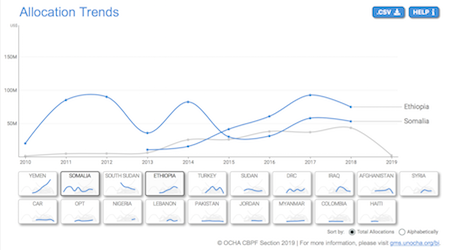
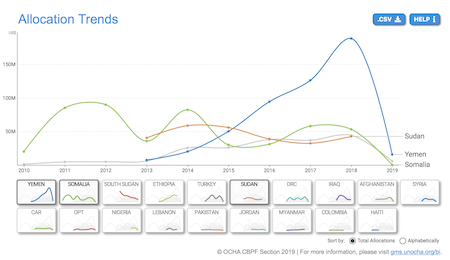
Update files

diff --git a/pbiali/src/d3chartpbiali.js b/pbiali/src/d3chartpbiali.js
@@ -95,6 +95,8 @@
 			labelPadding = 12,
 			labelGroupHeight = 16,
 			labelLinePadding = 4,
+			fadeOpacity = 0.1,
+			colorsArray = ["#418FDE", "#A4D65E", "#E56A54", "#E2E868", "#999999", "#ECA154", "#71DBD4", "#9063CD", "#D3BC8D"],
 			chartTitleDefault = "Allocation Trends",
 			sortButtonsOptions = ["total", "alphabetically"],
 			file = "https://cbpfapi.unocha.org/vo2/odata/AllocationBudgetTotalsByYearAndFund?poolfundAbbrv=&$format=csv",
@@ -178,6 +180,9 @@
 
 		const yScaleButton = d3.scaleLinear()
 			.range([buttonHeight - buttonsPanel.buttonsPadding[2], buttonsPanel.buttonsPadding[0]]);
+
+		const scaleColors = d3.scaleOrdinal()
+			.range(colorsArray);
 
 		const lineGeneratorMain = d3.line()
 			.x(function(d) {
@@ -276,6 +281,12 @@
 			yScaleMain.domain(yDomain);
 
 			yScaleButton.domain(yDomain);
+
+			scaleColors.domain(data.cbpfs.sort(function(a, b) {
+				return d3.descending(a.total, b.total);
+			}).map(function(d) {
+				return d.cbpf;
+			}));
 
 			createAverageLine(data.cbpfs, data.years);
 
@@ -380,6 +391,10 @@
 					.attr("class", "pbialiMainGroup")
 					.style("opacity", 0);
 
+				mainGroup.each(function(d) {
+					localVariable.set(this, d.cbpf);
+				});
+
 				const clipPath = mainGroup.append("clipPath")
 					.attr("id", function(d) {
 						return "pbialiClipPath" + d.cbpf.replace(/\s+/g, '');
@@ -394,7 +409,9 @@
 					.attr("d", function(d) {
 						return lineGeneratorMain(d.values);
 					})
-					.attr("class", "contributionColorStroke")
+					.style("stroke", function(d) {
+						return d3.color(scaleColors(d.cbpf)).darker(0.2);
+					})
 					.attr("stroke-width", "2px")
 					.attr("clip-path", function(d) {
 						return "url(#pbialiClipPath" + d.cbpf.replace(/\s+/g, '') + ")"
@@ -418,7 +435,9 @@
 						const thisCbpf = d3.select(this.parentNode).datum().cbpf
 						return "url(#pbialiClipPath" + thisCbpf.replace(/\s+/g, '') + ")"
 					})
-					.attr("class", "contributionColorFill");
+					.style("fill", function() {
+						return d3.color(scaleColors(localVariable.get(this))).darker(0.2);
+					});
 
 				const rectOverlayCbpfs = mainPanel.main.append("rect")
 					.attr("class", "pbialiRectOverlay")
@@ -555,7 +574,9 @@
 				buttonPaths.each(function(d) {
 					if (d.cbpf === d3.select(this.parentNode).datum().cbpf) {
 						d3.select(this).style("stroke-width", "2px")
-							.attr("class", "contributionColorStroke")
+							.style("stroke", function(d) {
+								return d3.color(scaleColors(d.cbpf)).darker(0.4);
+							})
 							.raise();
 					};
 				});
@@ -771,7 +792,8 @@
 						"</strong>:</span><br><div style='margin:0px;display:flex;flex-wrap:wrap;align-items:flex-end;width:232px;'>";
 
 					for (let i = 0; i < thisData.length; i++) {
-						tooltipHtml += "<div style='display:flex;flex:0 50%;'>&bull; " +
+						const thisColor = scaleColors(thisData[i].name);
+						tooltipHtml += "<div style='display:flex;flex:0 50%;'><span style='color:" + thisColor + ";'>&#9679;&nbsp;</span>" +
 							thisData[i].name + ":</div><div style='display:flex;flex:0 50%;justify-content:flex-end;'><span class='contributionColorHTMLcolor'>$" + formatMoney0Decimals(thisData[i].total) +
 							"</span></div>"
 					};
@@ -782,9 +804,31 @@
 						.data([true]);
 
 					const tooltipGroupEnter = tooltipGroup.enter()
-						.append("g")
+						.insert("g", ":first-child")
 						.attr("class", "pbialiTooltipGroup")
 						.attr("pointer-events", "none");
+
+					const lines = tooltipGroup.selectAll(".pbialiTooltipLines")
+						.data(thisData, function(d) {
+							return d.name
+						});
+
+					const linesExit = lines.exit().remove();
+
+					const linesEnter = lines.enter()
+						.append("line")
+						.attr("class", "pbialiTooltipLines")
+						.style("stroke-width", "1px")
+						.style("stroke", "#ccc")
+						.merge(lines)
+						.attr("x1", function(d) {
+							return xScaleMain(parseTime(d.year));
+						})
+						.attr("x2", function(d) {
+							return xScaleMain(parseTime(d.year));
+						})
+						.attr("y1", mainPanel.padding[0])
+						.attr("y2", mainPanel.height - mainPanel.padding[2]);
 
 					const circles = tooltipGroup.selectAll(".pbialiTooltipCircles")
 						.data(thisData, function(d) {
@@ -798,37 +842,14 @@
 						.attr("class", "pbialiTooltipCircles")
 						.attr("r", circleRadius + 2)
 						.style("fill", "none")
-						.classed("contributionColorStroke", true)
+						.style("stroke", function(d) {
+							return d3.color(scaleColors(d.name)).darker(0.2);
+						})
 						.merge(circles)
 						.attr("cx", function(d) {
 							return xScaleMain(parseTime(d.year))
 						})
 						.attr("cy", function(d) {
-							return yScaleMain(d.total)
-						});
-
-					const lines = tooltipGroup.selectAll(".pbialiTooltipLines")
-						.data(thisData, function(d) {
-							return d.name
-						});
-
-					const linesExit = lines.exit().remove();
-
-					const linesEnter = lines.enter()
-						.append("line")
-						.attr("class", "pbialiTooltipLines")
-						.style("stroke-dasharray", "4,4")
-						.style("stroke-width", "1px")
-						.style("stroke", "#888")
-						.merge(lines)
-						.attr("x1", function(d) {
-							return xScaleMain(parseTime(d.year)) - circleRadius - 2;
-						})
-						.attr("x2", mainPanel.padding[3])
-						.attr("y1", function(d) {
-							return yScaleMain(d.total)
-						})
-						.attr("y2", function(d) {
 							return yScaleMain(d.total)
 						});
 
@@ -981,6 +1002,15 @@
 							(thisDistance * (2 * Math.abs((yScaleMain(d.datum.total) - d.yPos)) / (maxSize)) - 2 * labelLinePadding) + "," + (yScaleMain(d.datum.total) - d.yPos) + " " +
 							(thisDistance * (2 * Math.abs((yScaleMain(d.datum.total) - d.yPos)) / (maxSize)) - 2 * labelLinePadding) + "," + 0 + " " +
 							-(labelLinePadding) + "," + 0;
+					});
+
+				labelsGroup.on("mouseover", function(d) {
+						selectedGroups.style("opacity", function(e) {
+							return e.cbpf === d.name ? 1 : fadeOpacity;
+						});
+					})
+					.on("mouseout", function() {
+						selectedGroups.style("opacity", 1);
 					});
 
 				mainPanel.main.select(".pbialiRectOverlay").raise();
